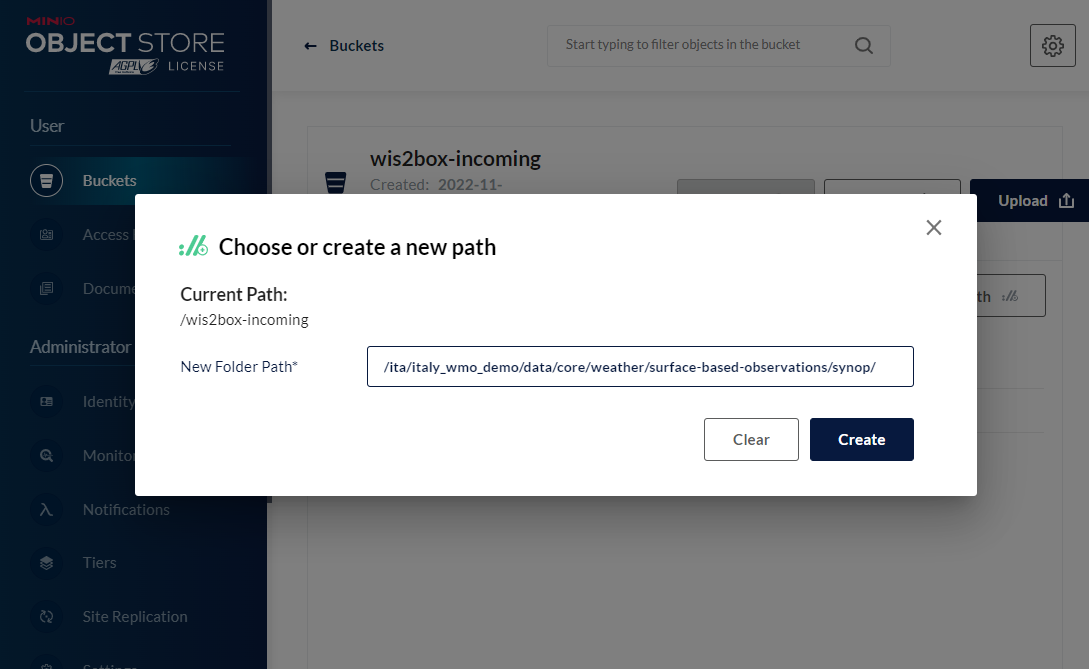
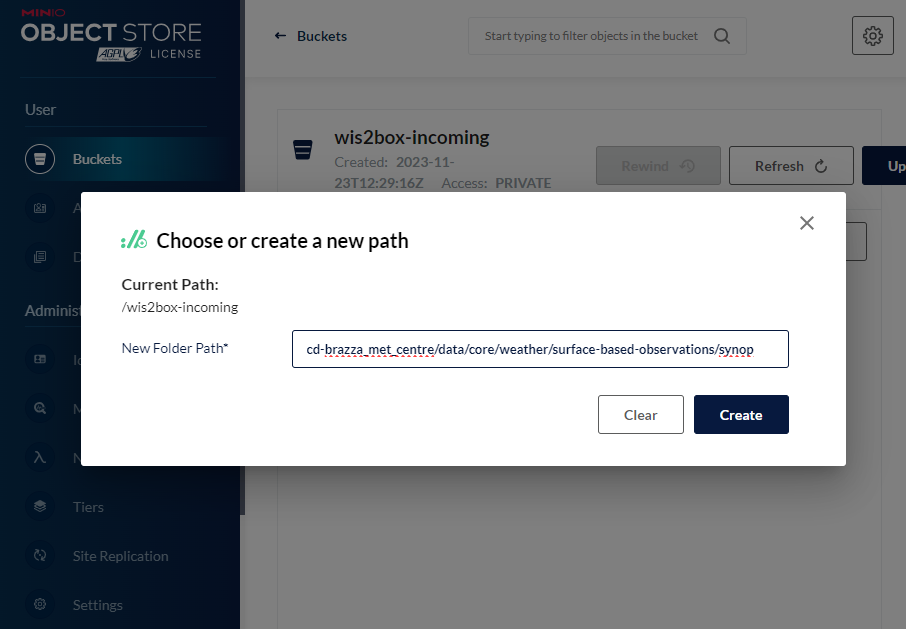
add screenshot and ingest related updates

diff --git a/docs/source/reference/storage.rst b/docs/source/reference/storage.rst
@@ -47,29 +47,6 @@ Install the Python boto3 package via `pip`_:
 
 The below example copies a local file (``myfile.csv``) to the ``wis2box-incoming`` bucket with topic ``foo.bar.baz``:
 
-
-.. code-block:: python
-
-    import boto3
-
-    endpoint_url = '<your-wis2box-url>'
-    filename = 'myfile.csv'
-
-    session = boto3.Session(
-        aws_access_key_id='wis2box',
-        aws_secret_access_key='Wh00data!'
-    )
-
-    s3client = session.client('s3', endpoint_url=endpoint_url)
-
-    with open(filename, 'rb') as fh:
-        s3client.upload_fileobj(fh, 'wis2box-incoming', f'foo/bar/baz/{filename}')
-
-
-To allow uploading files into MinIO remotely, the ``wis2box-incoming`` bucket is proxied via Nginx. 
-
-For example, to upload the local file (``WIGOS_0-454-2-AWSNAMITAMBO_2021-11-18T0955.csv with topic``) with topic ``mw-mw_met_centre.data.core.weather.surface-based-observations.synop`` via the Nbinx proxy:
-
 .. code-block:: python
 
     import boto3
@@ -79,15 +56,36 @@ For example, to upload the local file (``WIGOS_0-454-2-AWSNAMITAMBO_2021-11-18T0
 
     session = boto3.Session(
         aws_access_key_id='wis2box',
-        aws_secret_access_key='Wh00data!'
+        aws_secret_access_key='XXXXX' # your wis2box storage password
     )
 
     s3client = session.client('s3', endpoint_url=endpoint_url)
 
+    with open(filename, 'rb') as fh:
+        s3client.upload_fileobj(fh, 'wis2box-incoming', f'foo/bar/baz/{filename}')
+
+To allow uploading files into MinIO remotely, the ``wis2box-incoming`` bucket is proxied via Nginx. 
+
+For example, to upload the local file (``WIGOS_0-454-2-AWSNAMITAMBO_2021-11-18T0955.csv with topic``) to the folder 
+``mw-mw_met_centre/data/core/weather/surface-based-observations/synop``:
+
+.. code-block:: python
+
+    import boto3
+
+    endpoint_url = '<your-wis2box-url>'
     filename = 'WIGOS_0-454-2-AWSNAMITAMBO_2021-11-18T0955.csv'
 
-    with open(filename, 'rb') as f:
-        s3client.upload_fileobj(f, 'wis2box-incoming', f'data/core/observations-surface-land/mw/FWCL/landFixed/{filename}')
+    session = boto3.Session(
+        aws_access_key_id='wis2box',
+        aws_secret_access_key='XXXXX' # your wis2box storage password
+    )
+
+    s3client = session.client('s3', endpoint_url=endpoint_url)
+
+    folder = 'mw-mw_met_centre/data/core/weather/surface-based-observations/synop'
+    with open(filename, 'rb') as fh:
+        s3client.upload_fileobj(fh, 'wis2box-incoming', f'{folder}/{filename}')
 
 
 Using the MinIO Python Client
@@ -101,20 +99,28 @@ Install the Python minio module via `pip`_:
 
     pip3 install minio
 
-The below example copies a local file (``myfile.csv``) to the ``wis2box-incoming`` bucket to topic ``foo.bar.baz``:
+The below example copies a local file (``mydata.bin``) to the ``wis2box-incoming`` bucket to topic ``foo.bar.baz``:
 
 .. code-block:: python
 
     from minio import Minio
 
-    client = Minio(
-        'localhost:9000',
-        access_key='minio',
-        secret_key='minio123',
-        secure=False
-    )
+    filepath = '/home/wis2box-user/local-data/mydata.bin'
+    minio_path = '/it-roma_met_centre/data/core/weather/surface-based-observations/synop/'
 
-    client.fput_object('wis2box-incoming', 'myfile.csv', '/foo/bar/baz/myfile.csv') 
+    endpoint = 'http://localhost:9000'
+    WIS2BOX_STORAGE_USERNAME = 'wis2box'
+    WIS2BOX_STORAGE_PASSWORD = 'XXXXX' # your wis2box storage password
+
+    client = Minio(
+        endpoint=endpoint,
+        access_key=WIS2BOX_STORAGE_USERNAME,
+        secret_key=WIS2BOX_STORAGE_PASSWORD,
+        secure=is_secure=False)
+    
+    filename = filepath.split('/')[-1]
+    client.fput_object('wis2box-incoming', minio_path+filename, filepath)
+
 
 Using S3cmd
 ^^^^^^^^^^^
@@ -132,8 +138,8 @@ Edit the following fields in ``~/.s3cfg``:
     use_https = False
 
     # Setup access keys
-    access_key = minio
-    secret_key = minio123
+    access_key = wis2box
+    secret_key = XXXXX
     EOF
 
 

diff --git a/docs/source/user/data-ingest.rst b/docs/source/user/data-ingest.rst
@@ -183,8 +183,7 @@ To start the ``wis2box-data-subscriber``, add the following additional variables
 
 .. code-block:: bash
 
-    COUNTRY_ID=zmb  # set country_id used in wis2-topic-hierarchy
-    CENTRE_ID=zmb_met_centre  # set centre_id for wis2-topic-hierarchy
+    CENTRE_ID=zm-zmb_met_centre  # set centre_id for wis2-topic-hierarchy
 
 These variables determine the destination path in the ``wis2box-incoming`` bucket:
 
